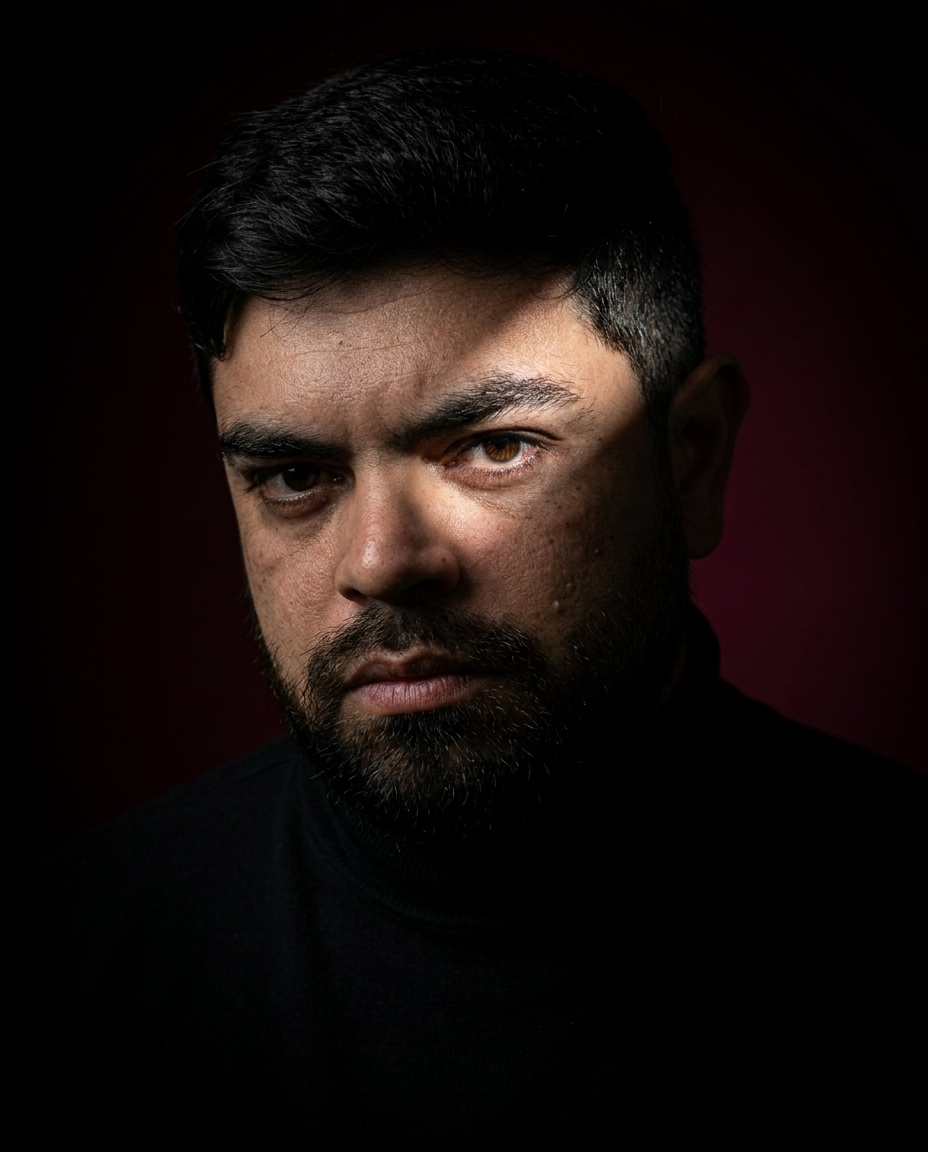
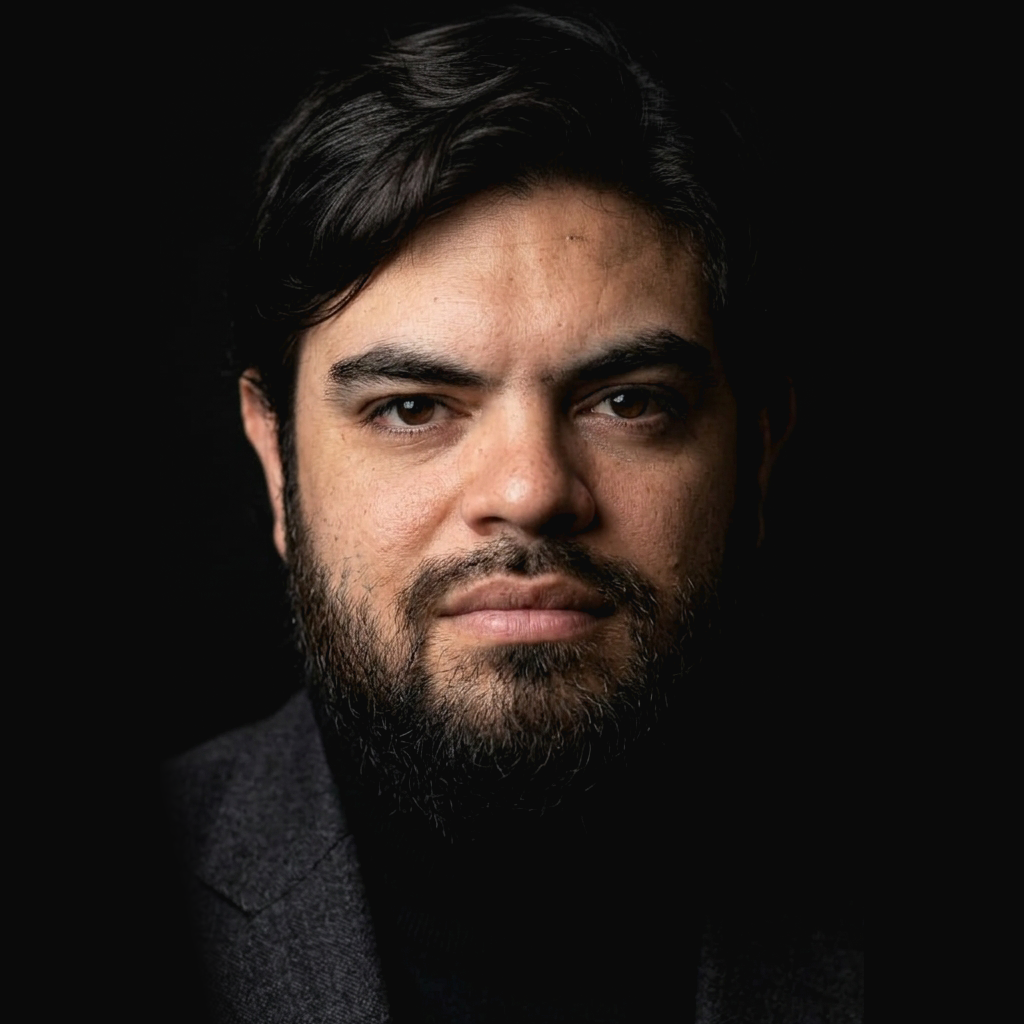
add photo and general fixes

diff --git a/frontend/src/app/i18n/messages.ts b/frontend/src/app/i18n/messages.ts
@@ -95,7 +95,16 @@ export const MESSAGES: Record<string, string> = {
   PROJECTS_CARD_RIU_FRONTEND_DIEGO_DANIEL_CACERES_FEATURE_6: $localize`:@@PROJECTS_CARD_RIU_FRONTEND_DIEGO_DANIEL_CACERES_FEATURE_6:Business validation logic: duplicate names check, automatic ID generation, loading states, and controlled error handling`,
   PROJECTS_CARD_RIU_FRONTEND_DIEGO_DANIEL_CACERES_CHALLENGE_1: $localize`:@@PROJECTS_CARD_RIU_FRONTEND_DIEGO_DANIEL_CACERES_CHALLENGE_1:Combining Signals (read-only reactive state) with RxJS (async operations) within the same stream without duplicating the single source of truth`,
   PROJECTS_CARD_RIU_FRONTEND_DIEGO_DANIEL_CACERES_CHALLENGE_2: $localize`:@@PROJECTS_CARD_RIU_FRONTEND_DIEGO_DANIEL_CACERES_CHALLENGE_2:Designing a generic HTTP abstraction to allow testing with mock data and later connecting to a real backend without altering the service's public API`,
-  PROJECTS_CARD_OILGROUP_TITLE: $localize`:@@PROJECTS_CARD_OILGROUP_TITLE:Oilgroup - Management Dashboard`,
+  PROJECTS_CARD_NURA_SHORT_DESC: $localize`:@@PROJECTS_CARD_NURA_SHORT_DESC:Personal portfolio built with Angular, featuring a custom translation system, automated CI/CD, and performance/accessibility audits`,
+  PROJECTS_CARD_NURA_FULL_DESC: $localize`:@@PROJECTS_CARD_NURA_FULL_DESC:This portfolio itself: a personal site built with Angular, showcasing projects across mobile, web, fullstack, npm libraries, and technical challenges through a standardized card and modal pattern. Includes a custom i18n system (EN, ES, PT), automated testing, and a full CI/CD pipeline deploying to GitHub Pages.`,
+  PROJECTS_CARD_NURA_ROLE: $localize`:@@PROJECTS_CARD_NURA_ROLE:Personal Project`,
+  PROJECTS_CARD_NURA_FEATURE_1: $localize`:@@PROJECTS_CARD_NURA_FEATURE_1:Sectioned single-page layout: home, about, experience, projects, recommendations, and contact`,
+  PROJECTS_CARD_NURA_FEATURE_2: $localize`:@@PROJECTS_CARD_NURA_FEATURE_2:Standardized project card and modal pattern, reused across every project type in the portfolio`,
+  PROJECTS_CARD_NURA_FEATURE_3: $localize`:@@PROJECTS_CARD_NURA_FEATURE_3:Custom translation service (TranslateKeyPipe) with a language selector for English, Spanish, and Portuguese`,
+  PROJECTS_CARD_NURA_FEATURE_4: $localize`:@@PROJECTS_CARD_NURA_FEATURE_4:CI/CD pipeline via GitHub Actions: lint, tests, and build on every push, with automatic deployment to GitHub Pages`,
+  PROJECTS_CARD_NURA_FEATURE_5: $localize`:@@PROJECTS_CARD_NURA_FEATURE_5:Automated performance and accessibility audits with Lighthouse CI, for both desktop and mobile`,
+  PROJECTS_CARD_NURA_CHALLENGE_1: $localize`:@@PROJECTS_CARD_NURA_CHALLENGE_1:Migrating from ngx-translate to a custom-built translation service without losing multi-language coverage`,
+  PROJECTS_CARD_NURA_CHALLENGE_2: $localize`:@@PROJECTS_CARD_NURA_CHALLENGE_2:Designing a single project schema (ProjectItem) flexible enough to represent mobile, web, fullstack, library, and challenge projects without duplicating components`,
   PROJECTS_CARD_OILGROUP_SHORT_DESC: $localize`:@@PROJECTS_CARD_OILGROUP_SHORT_DESC:Custom ERP/management portal actively maintained for a client over years: inventory, sales, customers, and suppliers`,
   PROJECTS_CARD_OILGROUP_FULL_DESC: $localize`:@@PROJECTS_CARD_OILGROUP_FULL_DESC:Tailor-made management portal (ERP) developed for an active real-world client and maintained over several years. Covers the complete business cycle: items and stock, sales and client billing, purchases and supplier payments, license management, and business metrics with PDF report generation.`,
   PROJECTS_CARD_OILGROUP_ROLE: $localize`:@@PROJECTS_CARD_OILGROUP_ROLE:Client Development & Maintenance`,

diff --git a/frontend/src/app/sections/projects-component/projects.component.ts b/frontend/src/app/sections/projects-component/projects.component.ts
@@ -169,6 +169,48 @@ export class ProjectsComponent {
       },
     },
     {
+      id: 'nura',
+      avatar: 'assets/projects/nura/logo.png',
+      title: 'Nura - Portfolio',
+      type: 'Web',
+      shortDescription: 'PROJECTS_CARD_NURA_SHORT_DESC',
+      coverImage: 'assets/projects/nura/cover.png',
+      techStackPreview: ['Angular 21', 'TypeScript', 'SCSS', 'SSG'],
+      status: 'IN_PROGRESS',
+      year: 2026,
+      fullDescription: 'PROJECTS_CARD_NURA_FULL_DESC',
+      role: 'PROJECTS_CARD_NURA_ROLE',
+      techStackFull: [
+        {
+          category: 'Frontend',
+          items: ['Angular 21', 'TypeScript', 'SCSS', 'Angular Router', 'i18n propio (EN, ES, PT)'],
+        },
+        {
+          category: 'Testing',
+          items: ['Vitest (unit)', 'Cypress (e2e)'],
+        },
+        {
+          category: 'Calidad y CI/CD',
+          items: ['ESLint', 'Prettier', 'Lighthouse CI (desktop + mobile)', 'GitHub Actions'],
+        },
+        {
+          category: 'DevOps',
+          items: ['Docker (entorno de desarrollo)'],
+        },
+      ],
+      keyFeatures: ['PROJECTS_CARD_NURA_FEATURE_1', 'PROJECTS_CARD_NURA_FEATURE_2', 'PROJECTS_CARD_NURA_FEATURE_3', 'PROJECTS_CARD_NURA_FEATURE_4', 'PROJECTS_CARD_NURA_FEATURE_5'],
+      challenges: ['PROJECTS_CARD_NURA_CHALLENGE_1', 'PROJECTS_CARD_NURA_CHALLENGE_2'],
+      links: {
+        repo: 'https://github.com/diegodanielcaceres10/nura',
+      },
+      typeDetails: {
+        kind: 'web',
+        deployUrl: 'https://diegodanielcaceres10.github.io/nura/',
+        pwa: false,
+        responsive: true,
+      },
+    },
+    {
       id: 'oilgroup',
       avatar: 'assets/projects/oilgroup/logo.png',
       title: 'Oilgroup',

diff --git a/frontend/src/app/sections/home-component/home.component.html b/frontend/src/app/sections/home-component/home.component.html
@@ -1,6 +1,4 @@
 <section class="home">
-  <span class="home__glow home__glow-primary" aria-hidden="true"></span>
-  <span class="home__glow home__glow-secondary" aria-hidden="true"></span>
   <div class="home__container">
     <div class="home__content">
       <span class="home__badge">
@@ -10,8 +8,8 @@
 
       <h1 class="home__title">
         <span class="home__title-greeting">{{ 'HOME_GREETING' | translate }}</span>
-        <span class="home__title-name">{{ fullName() }}</span>
-        <small class="home__title-subtitle">{{ roles() }}</small>
+        <span class="home__title-name">Diego Daniel Caceres</span>
+        <small class="home__title-subtitle">Senior Full Stack & Mobile Engineer · Angular Developer</small>
       </h1>
 
       <p class="home__description">{{ 'HOME_DESCRIPTION' | translate }}</p>
@@ -30,7 +28,7 @@
 
     <div class="home__visual">
       <div class="home__image-wrapper">
-        <img class="home__image" [src]="profileImage()" [alt]="profileImageAlt()" />
+        <img class="home__image" src="assets/diegodanielcaceres/photo.png" alt="Diego Daniel Caceres Photo" />
 
         <div class="home__tech-badges">
           @for (badge of techBadges(); track badge.name) {

diff --git a/frontend/src/app/sections/home-component/home.component.scss b/frontend/src/app/sections/home-component/home.component.scss
@@ -4,34 +4,12 @@
   position: relative;
   width: 100%;
   padding: var(--spacing-3xl) var(--spacing-lg);
-  background: var(--bg-primary);
+  // background: var(--bg-primary);
+  background: radial-gradient(circle at 30% 30%, rgba(82, 31, 87, 0.5), transparent 50%), radial-gradient(circle at 80% 50%, rgba(44, 171, 179, 0.2), transparent 20%);
   height: 100vh;
 
   @include ds.lg {
     height: auto;
-  }
-
-  &__glow {
-    position: absolute;
-    border-radius: 50%;
-    filter: blur(50px);
-    aspect-ratio: 1;
-
-    &-primary {
-      opacity: 0.25;
-      width: 30%;
-      top: 30%;
-      left: 10%;
-      background: var(--primary-color);
-    }
-
-    &-secondary {
-      opacity: 0.1;
-      width: 40%;
-      bottom: 0;
-      right: 20px;
-      background: var(--secondary-color);
-    }
   }
 
   &__container {
@@ -187,6 +165,7 @@
   &__image-wrapper {
     position: relative;
     width: 100%;
+    height: 60vh;
     border-radius: var(--radius-lg);
     overflow: hidden;
 

diff --git a/frontend/src/app/sections/projects-component/project-card.component/project-card.component.scss b/frontend/src/app/sections/projects-component/project-card.component/project-card.component.scss
@@ -18,15 +18,15 @@
   &__logo {
     width: max-content;
     max-width: 100%;
-    height: 75px;
+    height: 60px;
     margin-bottom: var(--spacing-xs);
 
     & i {
       display: flex;
       align-items: center;
       justify-content: center;
-      width: 75px;
-      height: 75px;
+      width: 60px;
+      height: 60px;
       border-radius: var(--radius-full);
       font-size: var(--font-size-xl);
       background: var(--primary-color-rgba);
@@ -59,11 +59,12 @@
     & small {
       top: var(--spacing-sm);
       padding: var(--spacing-2xs) var(--spacing-xs);
-      border-radius: var(--radius-full);
       font-size: var(--font-size-xs);
       font-weight: var(--font-weight-semibold);
-      color: var(--text-primary);
-      background: var(--secondary-color);
+      border-radius: var(--radius-full);
+      background: var(--primary-color-rgba);
+      border: 1px solid var(--primary-color);
+      color: var(--primary-color-light);
     }
   }
 

diff --git a/frontend/src/app/sections/home-component/home.component.ts b/frontend/src/app/sections/home-component/home.component.ts
@@ -42,11 +42,6 @@ export interface TechCategory {
 export class HomeComponent {
   private readonly localeService = inject(LocaleService);
 
-  protected readonly fullName = signal<string>('Diego Daniel Caceres');
-  protected readonly roles = signal<string>('Senior Full Stack & Mobile Engineer · Angular Developer');
-  protected readonly secondaryCtaLabel = signal<string>('Get In Touch');
-  protected readonly profileImage = signal<string>('assets/diegodanielcaceres/photo.png');
-  protected readonly profileImageAlt = signal<string>('Diego Daniel Caceres');
   protected readonly techBadges = signal<TechBadge[]>([
     { icon: 'assets/logos/angular.png', name: 'Angular', detail: 'v21', position: 'top-left' },
     { icon: 'assets/logos/ionic.png', name: 'Ionic', detail: 'Capacitor', position: 'top-right' },

diff --git a/frontend/src/app/language-selector/language-selector.page.ts b/frontend/src/app/language-selector/language-selector.page.ts
@@ -36,7 +36,7 @@ export class LanguageSelectorPage {
   ]);
 
   protected readonly channels = signal<QuickLink[]>([
-    { icon: 'fa-brands fa-linkedin-in', label: 'LinkedIn', url: 'https://linkedin.com/in/diego-daniel-caceres-10' },
+    { icon: 'fa-brands fa-linkedin-in', label: 'LinkedIn', url: 'https://www.linkedin.com/in/diego-daniel-caceres-1328991aa' },
     { icon: 'fa-brands fa-github', label: 'GitHub', url: 'https://github.com/diegodanielcaceres10' },
     { icon: 'fa-brands fa-npm', label: 'npm', url: 'https://www.npmjs.com/~diegodanielcaceres10' },
   ]);
